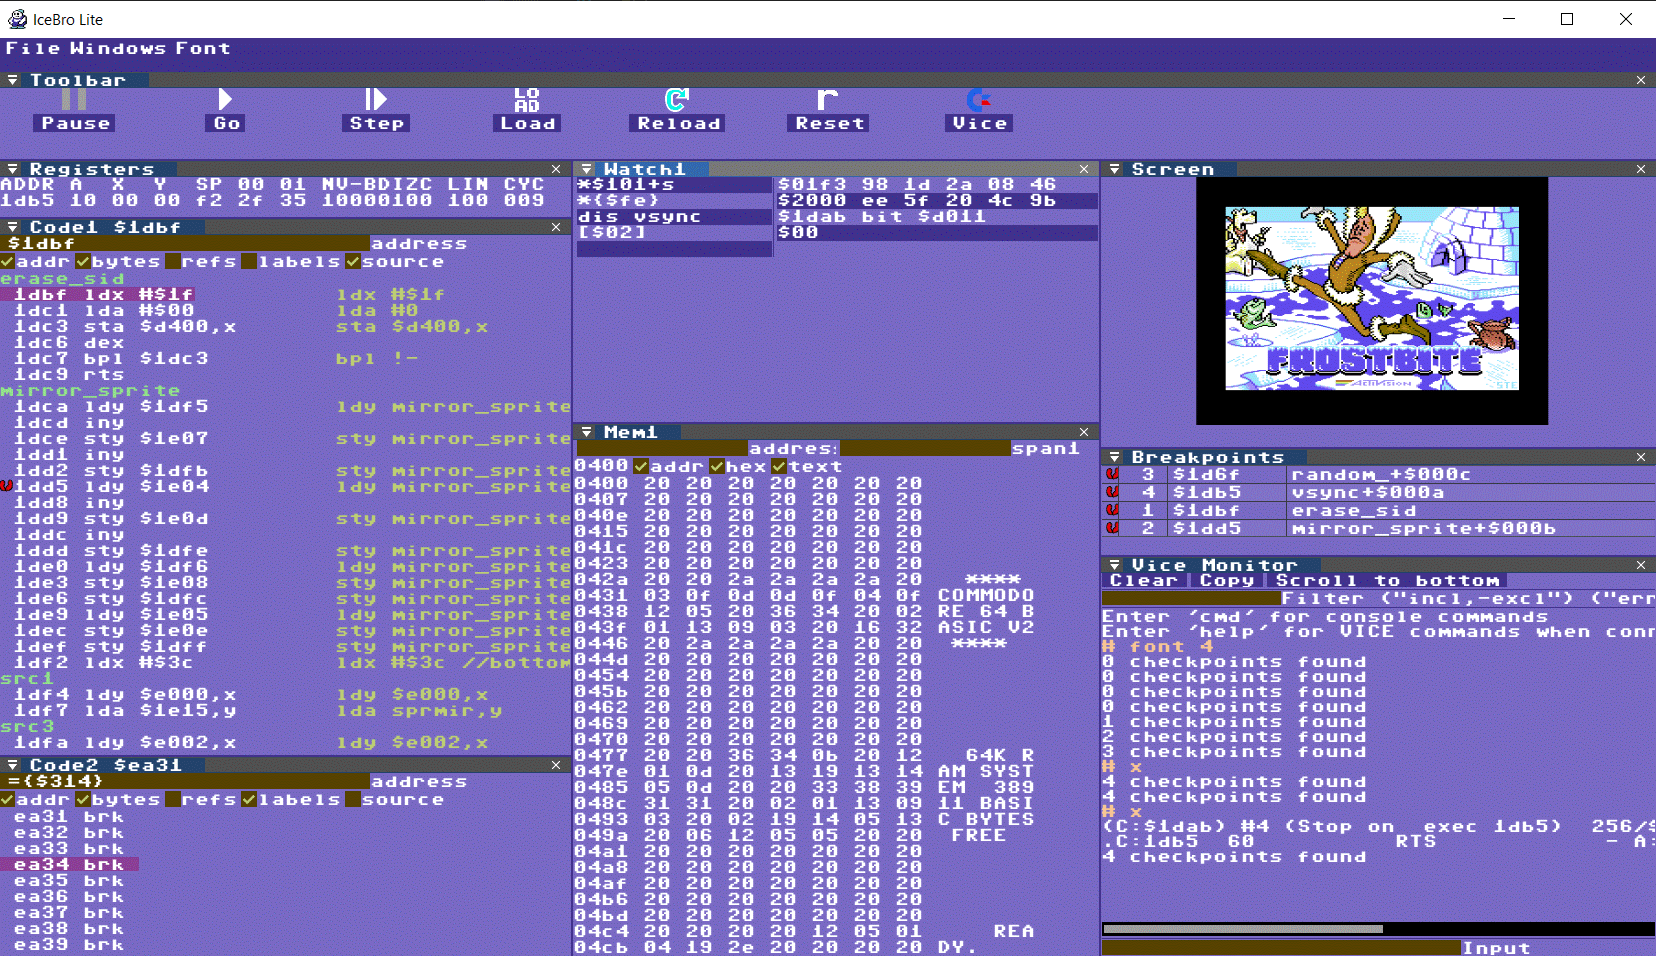
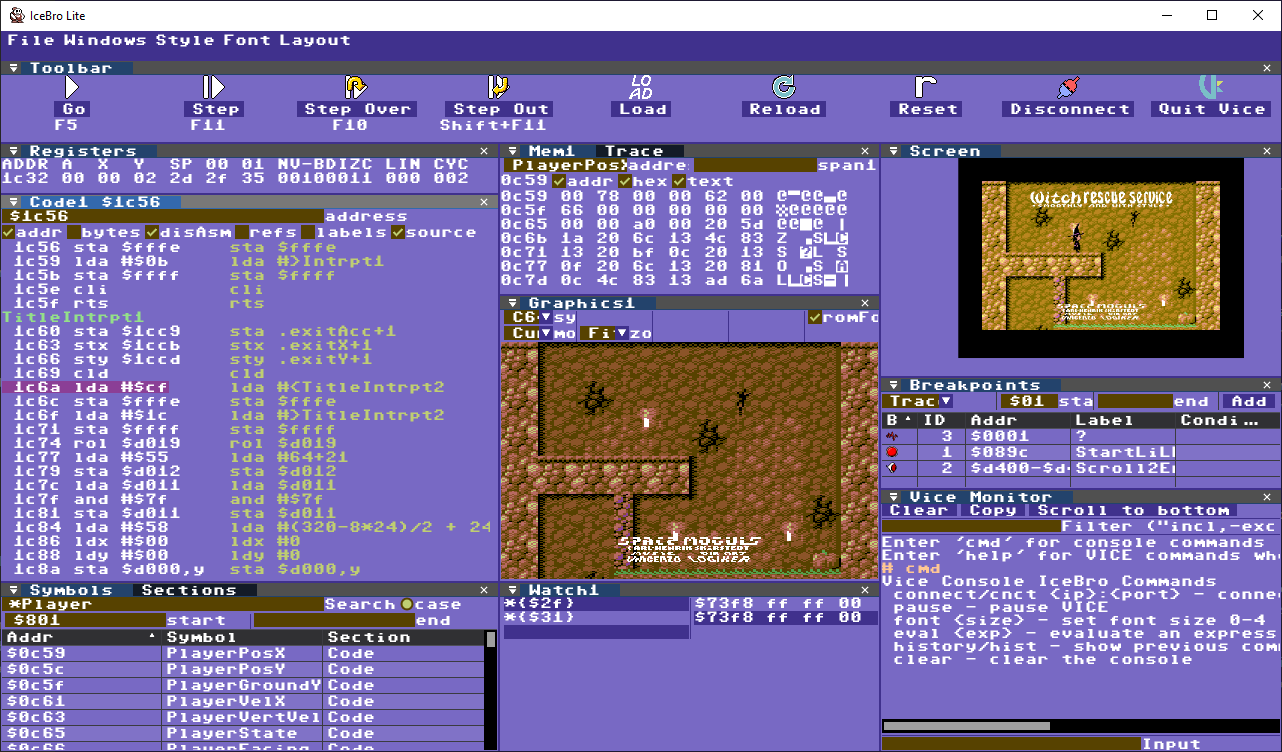
documentation, made Register editing more consistent with memory editing

diff --git a/src/views/RegView.cpp b/src/views/RegView.cpp
@@ -1,5 +1,6 @@
 #include <malloc.h>
 #include "../imgui/imgui.h"
+#include "../imgui/imgui_internal.h"
 #include "../struse/struse.h"
 #include "../ImGui_Helper.h"
 #include "../Config.h"
@@ -11,7 +12,7 @@
 
 constexpr auto CursorFlashPeriod = 64.0f/50.0f;
 
-RegisterView::RegisterView() : cursorTime(0.0f), open(true), wasActive(false)
+RegisterView::RegisterView() : cursorTime(0.0f), open(true), wasActive(false), editing(false)
 {
 	cursor = -1;
 }
@@ -43,32 +44,38 @@ void RegisterView::Draw()
 		return;
 	}
 
-	float fontCharWidth = CurrFontSize();
+	float fontCharWidth = ImGui::GetFont()->GetCharAdvance('0');
 
-	ImGui::BeginChild(ImGui::GetID("regEdit"));
+	ImGuiContext* g = ImGui::GetCurrentContext();
 
-	bool active = KeyboardCanvas("RegisterView");// IsItemActive();
+	bool active = g->CurrentWindow == g->NavWindow;
 
 	if (active && !wasActive) {
 		cursorTime = 0.5f * CursorFlashPeriod;
 	}
 
-//	ImVec2 topPos = ImGui::GetCursorPos();
-
 	ImGui::Text("ADDR A  X  Y  SP 00 01 NV-BDIZC LIN CYC");
+
 	cursorTime += ImGui::GetIO().DeltaTime;
 	if (cursorTime >= CursorFlashPeriod) { cursorTime -= CursorFlashPeriod; }
 
 	if (ImGui::IsMouseClicked(0)) {
 		ImVec2 mousePos = ImGui::GetMousePos();
-		ImVec2 winPos = ImGui::GetWindowPos();
-		ImVec2 winSize = ImGui::GetWindowSize();
-		if (mousePos.x >= winPos.x && mousePos.y >= winPos.y &&
-			mousePos.x < (winPos.x + winSize.x) && mousePos.y < (winPos.y + winSize.y)) {
-			int clickPos = int((mousePos.x - winPos.x) / fontCharWidth);
-			if (clickPos < 31) { cursor = clickPos; }
+		ImVec2 cursorPos = ImGui::GetCursorScreenPos();
+		float regTextWid = 39.0f * fontCharWidth;
+		if (mousePos.x >= cursorPos.x && mousePos.x < (cursorPos.x + regTextWid) && mousePos.y >= cursorPos.y) {
+			float regTextHgt = ImGui::GetFont()->FontSize;
+			if (mousePos.y < (cursorPos.y + regTextHgt)) {
+				int clickPos = int((mousePos.x - cursorPos.x) / fontCharWidth);
+				if (clickPos < 31) {
+					cursor = clickPos;
+					editing = true;
+				}
+			}
 		}
 	}
+
+	if (editing && (!active || ImGui::IsKeyPressed(GLFW_KEY_ESCAPE))) { editing = false; }
 
 	CPU6510* cpu = GetCurrCPU();
 
@@ -87,7 +94,7 @@ void RegisterView::Draw()
 	ImVec2 curPos = ImGui::GetCursorPos();
 	ImGui::Text(regs.c_str());
 
-	if (active && cursor >= 0) {
+	if (active && editing && cursor >= 0) {
 		int o = cursor;
 		uint8_t b = InputHex();
 		if (b <= 0xf) {
@@ -138,7 +145,7 @@ void RegisterView::Draw()
 		if (ImGui::IsKeyPressed(GLFW_KEY_RIGHT)) { cursor++; }
 	}
 
-	if (active && cursor >= 0 && cursorTime > (0.5f * CursorFlashPeriod)) {
+	if (active && editing && cursor >= 0 && cursorTime > (0.5f * CursorFlashPeriod)) {
 		if ((uint32_t)cursor > regs.len()) {
 			cursor = regs.len() - 1;
 		}
@@ -153,7 +160,6 @@ void RegisterView::Draw()
 		ImGui::TextColored(style.Colors[ImGuiCol_ChildBg], curChr.c_str());
 	}
 
-	ImGui::EndChild();
 	wasActive = active;
 	ImGui::End();
 }

diff --git a/src/views/RegView.h b/src/views/RegView.h
@@ -8,10 +8,13 @@ struct RegisterView
 	RegisterView();
 	void WriteConfig( UserData & config );
 	void ReadConfig( strref config );
+	void Draw();
+
+
 	int cursor;
 	float cursorTime;
 	bool open;
+	bool editing;
 	bool wasActive;
-	void Draw();
 };
 

diff --git a/manual.MD b/manual.MD
@@ -159,6 +159,23 @@ Breakpoint pane Keys (after clicking on a breakpoint)
 * **Up/Down**: Move through breakpoints
 * **Delete**: Delete breakpoint
 
+# Views
+
+## Toolbar
+
+![Toolbar View](img/Toolbar.png)
+
+The toolbar consists of buttons that controls the debugger and VICE such as Go/Stop, Step, Load a program/disk/cartridge or reload (a reload will clean VICE so you can iterate your code and start over without restarting VICE).
+Connect will attach the debugger to an existing instance of VICE, Start VICE will try to start a new instance of VICE.
+* Go/Stop: If VICE is connected start/stop execution, same as F5/Shift F5 on the keyboard.
+* Step: If VICE is connected and stopped, step one instruction. Step in to jsr. Same as F11.
+* Step Over: Step over jsr. Same as F10.
+* Step Out: Run until exiting a subroutine (after calling jsr if possible). Same as Shift F11
+* Load: Open the load program dialog, select a .prg, .d64 or .crt file. VICE will reset then load in the program.
+* Reload: repeat the last file opened using Load
+* Reset: Reset the c64 in VICE
+* Connect/Disconnect: Connect to a running instance of VICE or disconnect if already connected
+* Start/Quit VICE: Load VICE or if already connected, Quit VICE.
 
 ## Code View
 
@@ -239,7 +256,9 @@ If the Graphics View is selected press CTRL+C to copy the graphics to the clipbo
 
 ## Register View
 
-...
+![Edit Registers](img/Registers.png)
+
+In this view you can quickly check the current registers and flags and also edit them while VICE is stopped. Just click on any value and edit, cursor left/right to navigate when editing is active. Press Esc to stop editing.
 
 ## Screen View
 

diff --git a/readme.MD b/readme.MD
@@ -5,7 +5,7 @@ I've started writing a [manual](manual.MD)!
 Most information below might be outdated, I haven't updated this as I've updated the code.
 
 ![IceBroLite](img/window.png)
-Debugger is showing FrostBite code and art from Tony Savona, Saul Cross and STE'86. This is used because Kick Assembler has better debug information and I'm not using it for my personal projects.
+Checking Witch Rescue Service out in IceBro Lite
 
 # Releases
 
@@ -17,4 +17,4 @@ IceBro Lite doesn't contain its own 6502 emulator for debugging "post mortem" wh
 
 ### Status
 
-Currently testing the latest pre-release to figure out anything blocking a full first release.
+Testing release candidates, wrapping up documentation
